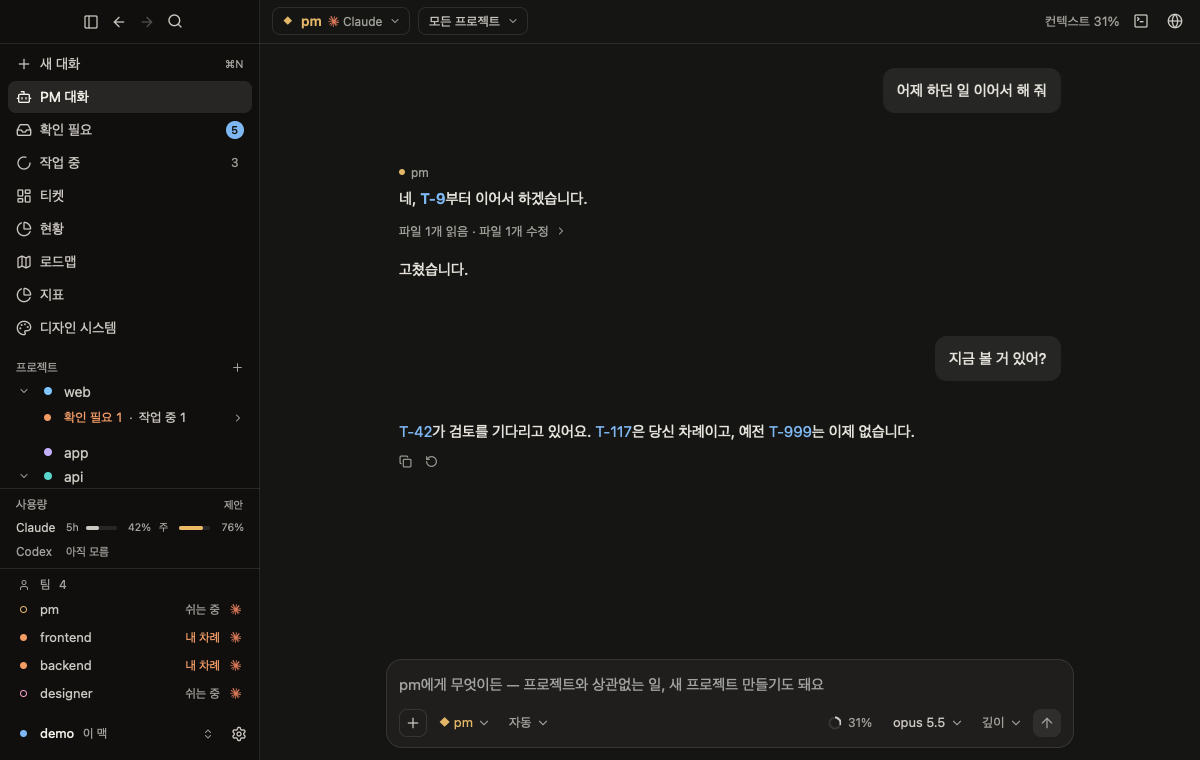
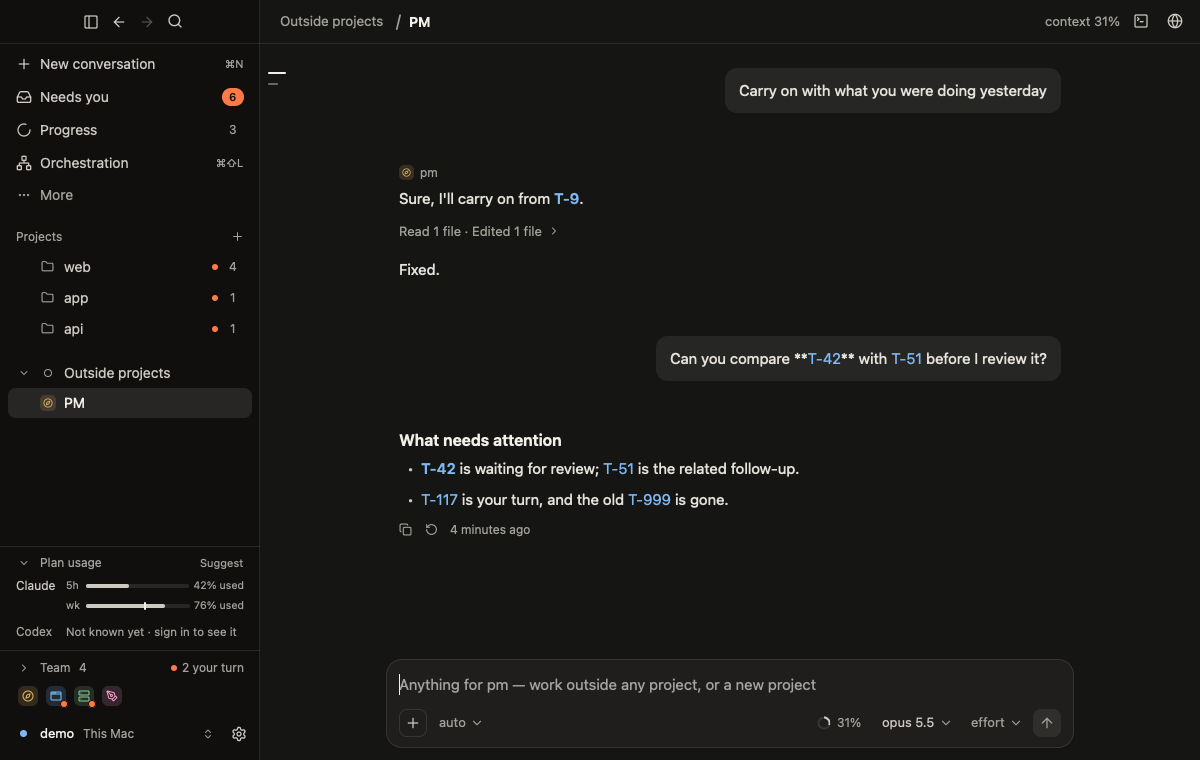
Show ticket details when hovering conversation links
Release note: Hover a ticket number in a conversation to see its status, owner, wait reason, and next action without leaving the thread.

diff --git a/vendor/gpui-base/src/text/text_view.rs b/vendor/gpui-base/src/text/text_view.rs
@@ -2794,6 +2794,79 @@ mod tests {
     }
 
     #[gpui::test]
+    fn multiline_markdown_links_report_each_hover_but_not_selection_drag(
+        cx: &mut TestAppContext,
+    ) {
+        use std::sync::Mutex;
+
+        struct MarkdownHoverRoot {
+            text_view: Entity<TextViewState>,
+        }
+
+        impl Render for MarkdownHoverRoot {
+            fn render(
+                &mut self,
+                _window: &mut Window,
+                _cx: &mut Context<Self>,
+            ) -> impl IntoElement {
+                div()
+                    .w(px(520.))
+                    .h(px(160.))
+                    .child(TextView::new(&self.text_view).selectable(true))
+            }
+        }
+
+        cx.update(crate::init);
+        let hovered = Arc::new(Mutex::new(Vec::<SharedString>::new()));
+        let captured = hovered.clone();
+        cx.update(move |cx| {
+            super::on_link_hover(cx, move |url, _, _, _| {
+                captured.lock().unwrap().push(url.clone());
+            });
+        });
+        let markdown = "First [**T-42**](ticket:42) and [T-51](ticket:51).\n\n- Then [T-117](ticket:117).";
+        let (root, cx) = cx.add_window_view(|_, cx| MarkdownHoverRoot {
+            text_view: cx.new(|cx| TextViewState::markdown(markdown, cx)),
+        });
+        let cx: &mut VisualTestContext = cx;
+        cx.run_until_parked();
+        cx.update(|window, cx| window.draw(cx).clear(cx));
+
+        // Walk every rendered fragment. This finds both links in the first
+        // sentence independently, including the emphasized one, and the link
+        // in the list on the next Markdown block.
+        let bounds = root.read_with(cx, |root, cx| {
+            root.text_view.read(cx).selection_adapter.text_bounds()
+        });
+        for fragment in &bounds {
+            let mut x = fragment.left() + px(1.);
+            while x < fragment.right() {
+                cx.simulate_mouse_move(
+                    point(x, fragment.center().y),
+                    None,
+                    Modifiers::default(),
+                );
+                x += px(3.);
+            }
+        }
+        let seen = hovered.lock().unwrap();
+        for url in ["ticket:42", "ticket:51", "ticket:117"] {
+            assert!(seen.iter().any(|seen| seen == url), "{url} was not reported: {seen:?}");
+        }
+        drop(seen);
+
+        // Dragging a selection across the linked prose must not ask for a
+        // hover card, even when it crosses several ticket links.
+        let before = hovered.lock().unwrap().len();
+        let first = bounds.first().expect("first Markdown fragment");
+        let last = bounds.last().expect("last Markdown fragment");
+        cx.simulate_mouse_down(first.origin, MouseButton::Left, Modifiers::default());
+        cx.simulate_mouse_move(point(last.right() - px(1.), last.center().y), Some(MouseButton::Left), Modifiers::default());
+        cx.simulate_mouse_up(point(last.right() - px(1.), last.center().y), MouseButton::Left, Modifiers::default());
+        assert_eq!(hovered.lock().unwrap().len(), before, "selection drag opened a link hover");
+    }
+
+    #[gpui::test]
     fn inline_object_inherits_bold_and_link_clicks_without_opening_on_drag(
         cx: &mut TestAppContext,
     ) {

diff --git a/crates/desktop/examples/fake_daemon.rs b/crates/desktop/examples/fake_daemon.rs
@@ -35,8 +35,9 @@
 //! `FAKE_SECONDS` (default 4) is how long a reply streams; `FAKE_SAID` adds a
 //! last message of the person's to the PM's history (attachment tags and all);
 //! `FAKE_KEPT=<words>` a voice memo whose files are gone, its words kept with it.
-//! `FAKE_CARDS=1` ends it on a reply naming T-42 (a review), T-117 and T-999
-//! (no such ticket), to rest the pointer on; `FAKE_CARDS=long` gives T-42 a
+//! `FAKE_CARDS=1` ends it on a person's Markdown naming T-42 and T-51, then a
+//! multiline reply naming emphasized T-42, T-117 and T-999 (no such ticket),
+//! to rest the pointer on; `FAKE_CARDS=long` gives T-42 a
 //! hand-in long enough to scroll on its card, and with `FAKE_REPLY_IMAGES=1`
 //! the reply names T-4 too — its pictures and all, a card taller than a small window.
 //! `FAKE_REVIEW=1` gives T-42 and T-71 a made-up Nemotron review (canned, not a model's).
@@ -1293,9 +1294,9 @@ async fn serve(stream: UnixStream, events: broadcast::Sender<Event>, turns: Turn
                         // `FAKE_CARDS=1`: a last reply naming a review, a wait and a number
                         // long gone, for the tickets' cards on the pointer.
                         if std::env::var_os("FAKE_CARDS").is_some() {
-                            history.push(Entry::User { text: "Anything for me to look at?".into(), kept: Vec::new() });
+                            history.push(Entry::User { text: "Can you compare **T-42** with T-51 before I review it?".into(), kept: Vec::new() });
                             let pictures = if replies::on() { " Have a look at T-4's pictures too." } else { "" };
-                            history.push(Entry::Reply { text: format!("T-42 is waiting for review. T-117 is your turn, and the old T-999 is gone.{pictures}") });
+                            history.push(Entry::Reply { text: format!("## What needs attention\n\n- **T-42** is waiting for review; T-51 is the related follow-up.\n- T-117 is your turn, and the old T-999 is gone.{pictures}") });
                         }
                         if let Some(how) = your_turn() {
                             history.push(Entry::Note { undo: None, text: "frontend handed in T-63 for your review · Competitor onboarding research.".into() });

diff --git a/vendor/gpui-base/src/text/inline.rs b/vendor/gpui-base/src/text/inline.rs
@@ -1132,16 +1132,22 @@ impl Element for Inline {
 
                     let updated =
                         Self::link_range_for_position(&text_layout, &links, event.position);
+                    // equipe: report the link on every unpressed move, not only
+                    // the transition onto it. A TextView can be laid out or
+                    // repainted under a still pointer with this link already
+                    // recorded as hovered; waiting for another transition then
+                    // left the conversation's ticket card unopened. The card's
+                    // state machine deduplicates repeated reports and keeps the
+                    // original hover delay.
+                    if event.pressed_button.is_none()
+                        && let Some(range) = updated.clone()
+                        && let Some((_, link)) = links.iter().find(|(r, _)| *r == range)
+                    {
+                        let bounds = Self::link_row_bounds(&text_layout, &range, event.position);
+                        handle_link_hover(&link.url, bounds, window, cx);
+                    }
                     if hovered_link != updated {
                         hovered_link = updated;
-                        // equipe: the link the pointer came onto, and its row under it.
-                        if event.pressed_button.is_none()
-                            && let Some(range) = hovered_link.clone()
-                            && let Some((_, link)) = links.iter().find(|(r, _)| *r == range)
-                        {
-                            let bounds = Self::link_row_bounds(&text_layout, &range, event.position);
-                            handle_link_hover(&link.url, bounds, window, cx);
-                        }
                         cx.notify(current_view);
                     }
                 }

diff --git a/crates/desktop/src/views/ticket_card.rs b/crates/desktop/src/views/ticket_card.rs
@@ -484,10 +484,13 @@ pub fn layer(cx: &mut Context<Shell>) -> AnyView {
         return layer.0.clone().into();
     }
     let shell = cx.entity().downgrade();
+    let hover_shell = shell.clone();
     let card = cx.new(|_| TicketCard { shell, hover: Hover::default(), timer: None, drawn: Rc::new(Cell::new(None)), result: None, asked: HashMap::new(), acted: HashSet::new(), said: (0, ScrollHandle::new(), ScrollHandle::new()) });
     cx.set_global(Layer(card.clone()));
-    gpui_kit::base::text::on_link_hover(cx, |url, bounds, _, cx| {
-        if let Some(id) = url.strip_prefix(crate::convo::TICKET_SCHEME).and_then(|n| n.parse().ok()) {
+    gpui_kit::base::text::on_link_hover(cx, move |url, bounds, _, cx| {
+        if let Some(id) = url.strip_prefix(crate::convo::TICKET_SCHEME).and_then(|n| n.parse().ok())
+            && hover_shell.upgrade().is_some_and(|shell| shell.read(cx).model.tickets.iter().any(|ticket| ticket.id == id))
+        {
             enter(id, bounds, Side::Below, cx);
         }
     });
